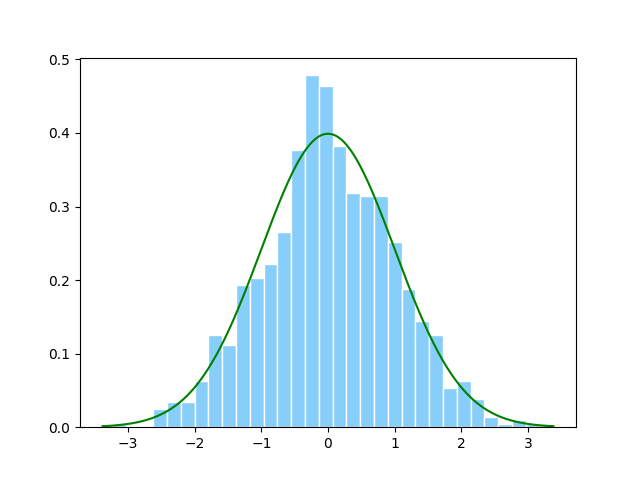
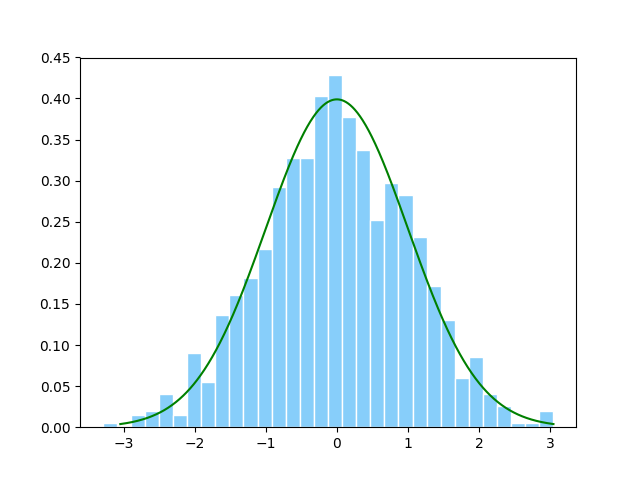
add standard normal dist.

diff --git a/probility/gen_distribute_from_U.py b/probility/gen_distribute_from_U.py
@@ -46,11 +46,7 @@ f = 1/(sqrt(2*pi) * sigma) * exp(-(x-mu)^2/(2*sigma^2))
 '''
 def gen_gauss_distribute_pdf(mu, sigma, sample_count, max_x):
     gauss_x = np.linspace(-max_x, max_x, sample_count)
-    gauss_y = np.zeros(len(gauss_x))
-
-    for id in range(len(gauss_x)): 
-        x = gauss_x[id]
-        gauss_y[id] = 1/(np.sqrt(2 * np.pi) * sigma) * np.exp(-(x-mu)**2/(2*sigma**2))
+    gauss_y = map(lambda x:1/(np.sqrt(2 * np.pi) * sigma) * np.exp(-(x-mu)**2/(2*sigma**2)), gauss_x)
 
     return gauss_x, gauss_y
 
@@ -126,12 +122,6 @@ def gen_exp_distribute_pdf(sample_count, beta, max_x):
 
     return x,y
 
-
-
-#print num_has_gauss_dis
-
-#draw Histogram
-
 #分组的数量在5－12之间较为适宜(本程序用的是下一条)
 #一般取总样本数开平方取上界. 上一个分组算法一般认为不合理
 #分得越细，和曲线偏差越大,但好看；分得粗，不好看
@@ -139,22 +129,25 @@ sample_count = 1000
 group_count = int(np.sqrt(sample_count) + 0.9999) 
 
 sim_gauss_num = gen_gauss_samples_byU(sample_count)
-#绘制高斯采样的直方图
-plt_hist(sim_gauss_num, normed=True)
-
-#绘制正态分布图
-dis = np.max(sim_gauss_num)
-gauss_x, gauss_y = gen_gauss_distribute_pdf(0, 1, sample_count, dis)
-plt.plot(gauss_x, gauss_y, color='g')
-
 mean_val = np.mean(sim_gauss_num)
 std_val = np.std(sim_gauss_num)
 print "mean, std:", mean_val, std_val
 
-#plt_gauss_distribute(0, 2, 'r')
-#plt_gauss_distribute(1, 2, 'k')
+#绘制高斯采样的直方图
+plt_hist(sim_gauss_num, normed=True)
+
+#叠加正态分布图
+gauss_x, gauss_y = gen_gauss_distribute_pdf(0, 1, sample_count, np.max(sim_gauss_num))
+plt.plot(gauss_x, gauss_y, color='g')
 
 plt.savefig('images/norm_distribute_gen_by_U.png', format='png')
+
+#绘制正态分布图.两种生成方法，对比一下误差
+plt.clf()
+gauss_x2, gauss_y2 = gen_gauss_distribute_pdf_from_dist_table(0, 1)
+plt.plot(gauss_x, gauss_y, 'g-.')
+plt.plot(gauss_x2, gauss_y2, 'r--')
+plt.savefig('images/norm_distribute.png', format='png')
 
 #指数分布相关
 plt.clf()
@@ -162,7 +155,7 @@ sim_num = gen_exp_samples_byU(sample_count, 1)
 #绘制指数采样直方图
 plt.hist(sim_num, bins = group_count, normed=True)
 
-#绘制标准指数分布图
+#叠加标准指数分布图
 exp_x, exp_y = gen_exp_distribute_pdf(sample_count, 1, np.max(sim_num))
 plt.plot(exp_x, exp_y, color='g')
 
